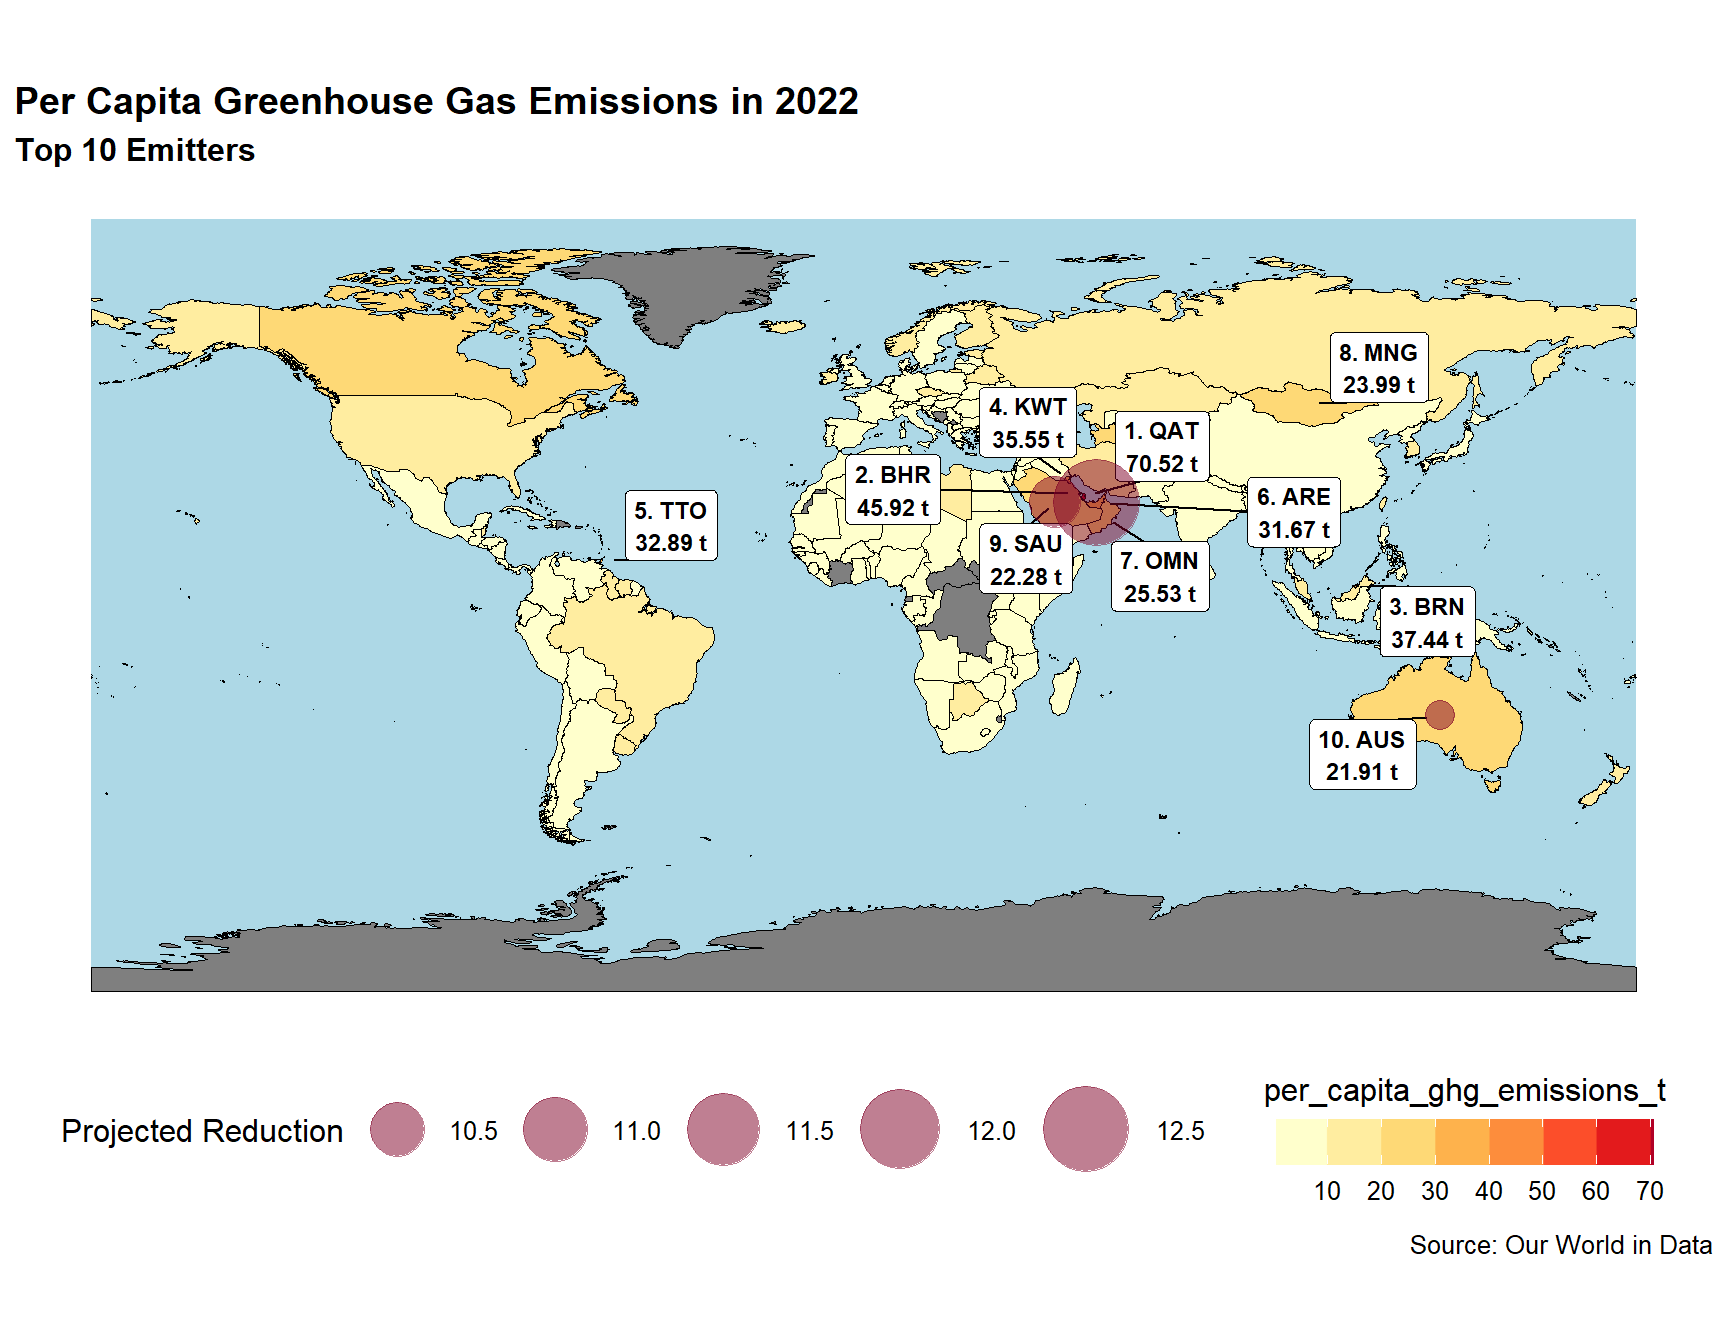
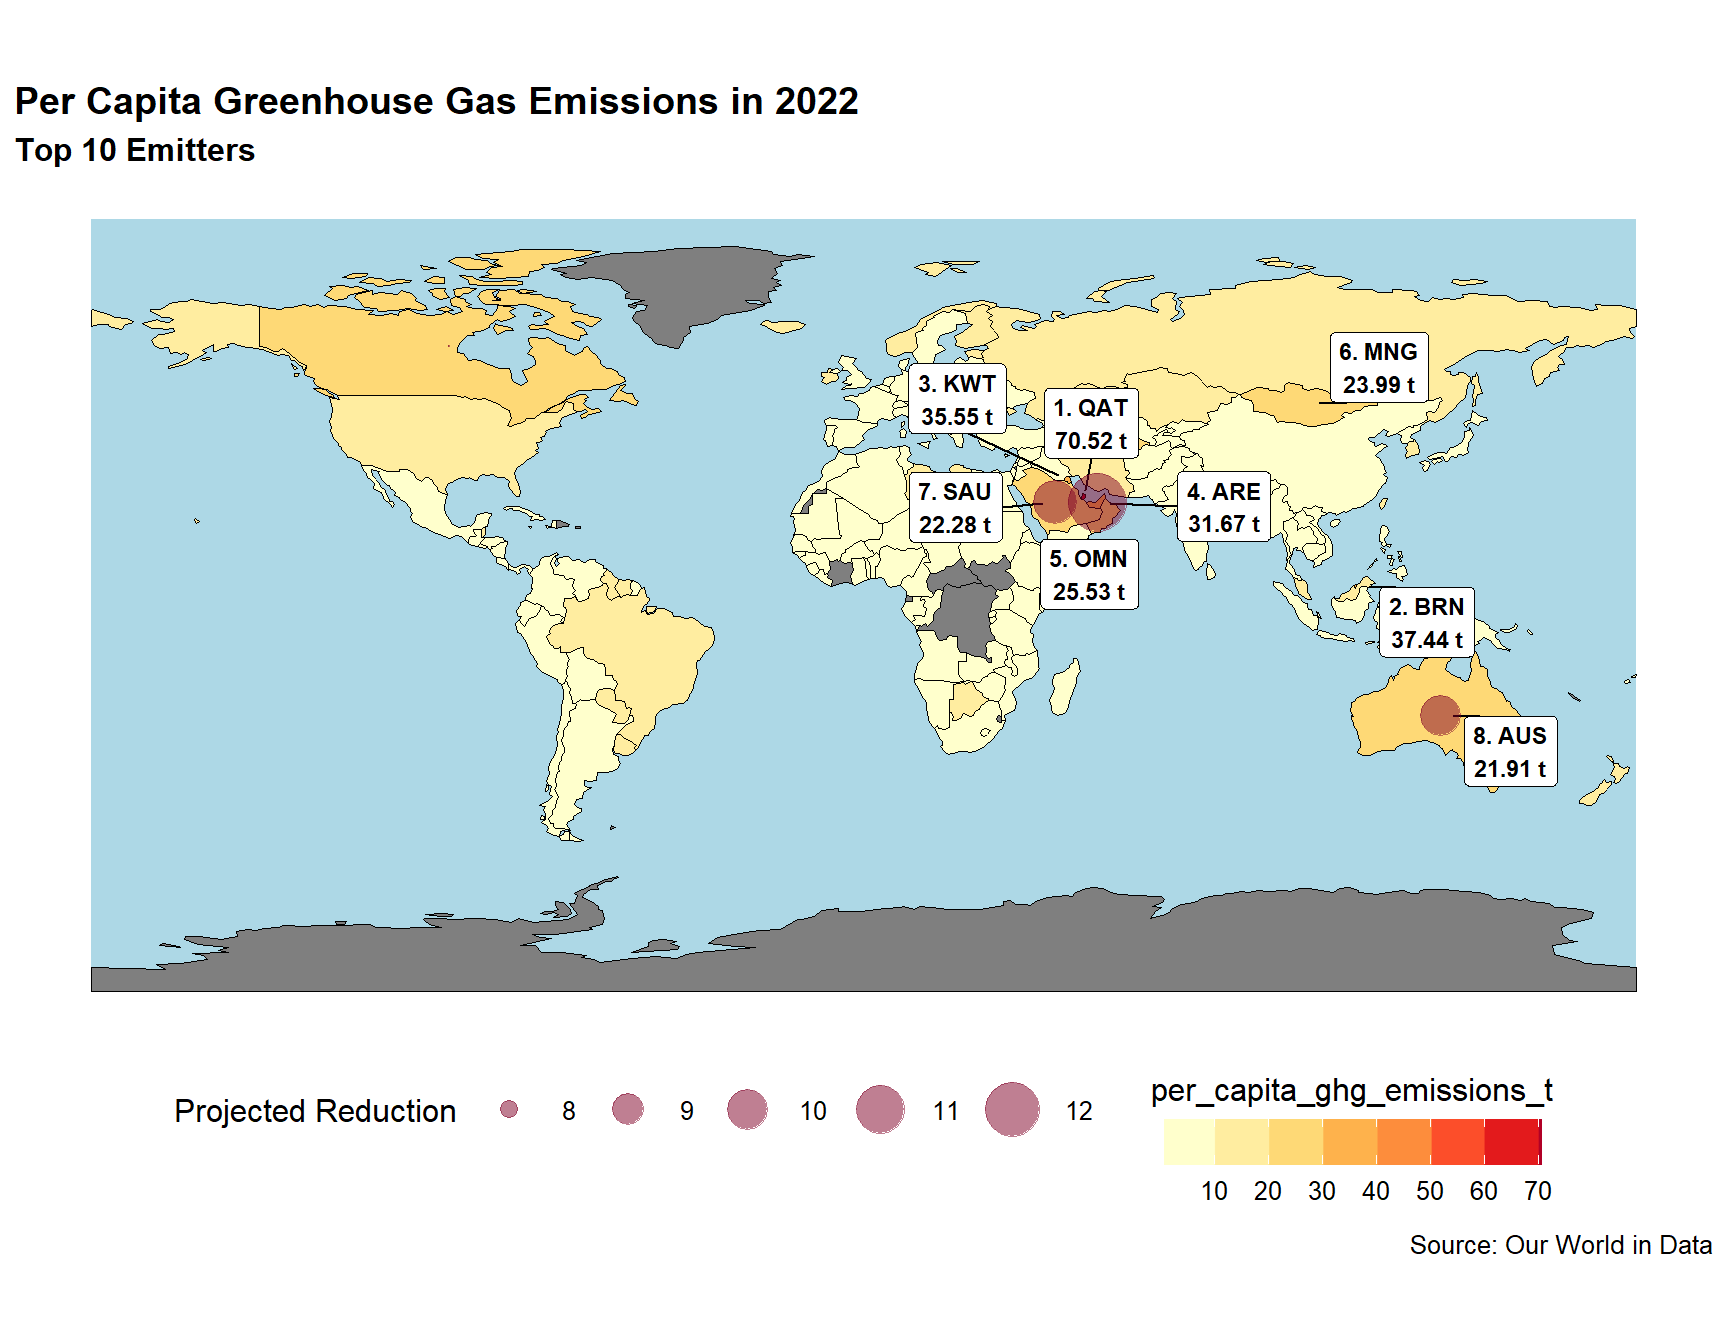
Changed bubble size and reduced features on world map

diff --git a/CSC3107_Assignment_Seashell.html b/CSC3107_Assignment_Seashell.html
@@ -191,7 +191,9 @@ pre > code.sourceCode > span > a:first-child::before { text-decoration: underlin
 <span id="cb1-5"><a href="#cb1-5" aria-hidden="true" tabindex="-1"></a><span class="fu">library</span>(rnaturalearth)</span>
 <span id="cb1-6"><a href="#cb1-6" aria-hidden="true" tabindex="-1"></a><span class="fu">library</span>(sf)</span>
 <span id="cb1-7"><a href="#cb1-7" aria-hidden="true" tabindex="-1"></a><span class="fu">library</span>(tidyverse)</span>
-<span id="cb1-8"><a href="#cb1-8" aria-hidden="true" tabindex="-1"></a><span class="fu">library</span>(scales)</span></code><button title="Copy to Clipboard" class="code-copy-button"><i class="bi"></i></button></pre></div>
+<span id="cb1-8"><a href="#cb1-8" aria-hidden="true" tabindex="-1"></a><span class="fu">library</span>(scales)</span>
+<span id="cb1-9"><a href="#cb1-9" aria-hidden="true" tabindex="-1"></a><span class="fu">library</span>(mapview)</span>
+<span id="cb1-10"><a href="#cb1-10" aria-hidden="true" tabindex="-1"></a><span class="fu">library</span>(rmapshaper)</span></code><button title="Copy to Clipboard" class="code-copy-button"><i class="bi"></i></button></pre></div>
 </div>
 </section>
 <section id="b.-view-data" class="level2">
@@ -450,8 +452,20 @@ pre > code.sourceCode > span > a:first-child::before { text-decoration: underlin
 <p><strong>Note</strong>: European Union is not a country, it is a political and economic union of 27 member states that are located primarily in Europe. The data has been broken up to show as individual state.</p>
 </blockquote>
 <div class="cell">
+<div class="cell-output cell-output-stdout">
+<pre><code>[1] "Reducing features on `world` for faster rendering from 99613"</code></pre>
+</div>
+<div class="cell-output cell-output-stdout">
+<pre><code>[1] 6296</code></pre>
+</div>
+</div>
+<div class="cell">
 <div class="cell-output cell-output-stderr">
-<pre><code>Warning: Removed 7 rows containing missing values or values outside the scale range
+<pre><code>Warning: Removed 2 rows containing missing values or values outside the scale range
+(`geom_label_repel()`).</code></pre>
+</div>
+<div class="cell-output cell-output-stderr">
+<pre><code>Warning: Removed 6 rows containing missing values or values outside the scale range
 (`geom_point()`).</code></pre>
 </div>
 <div class="cell-output-display">
